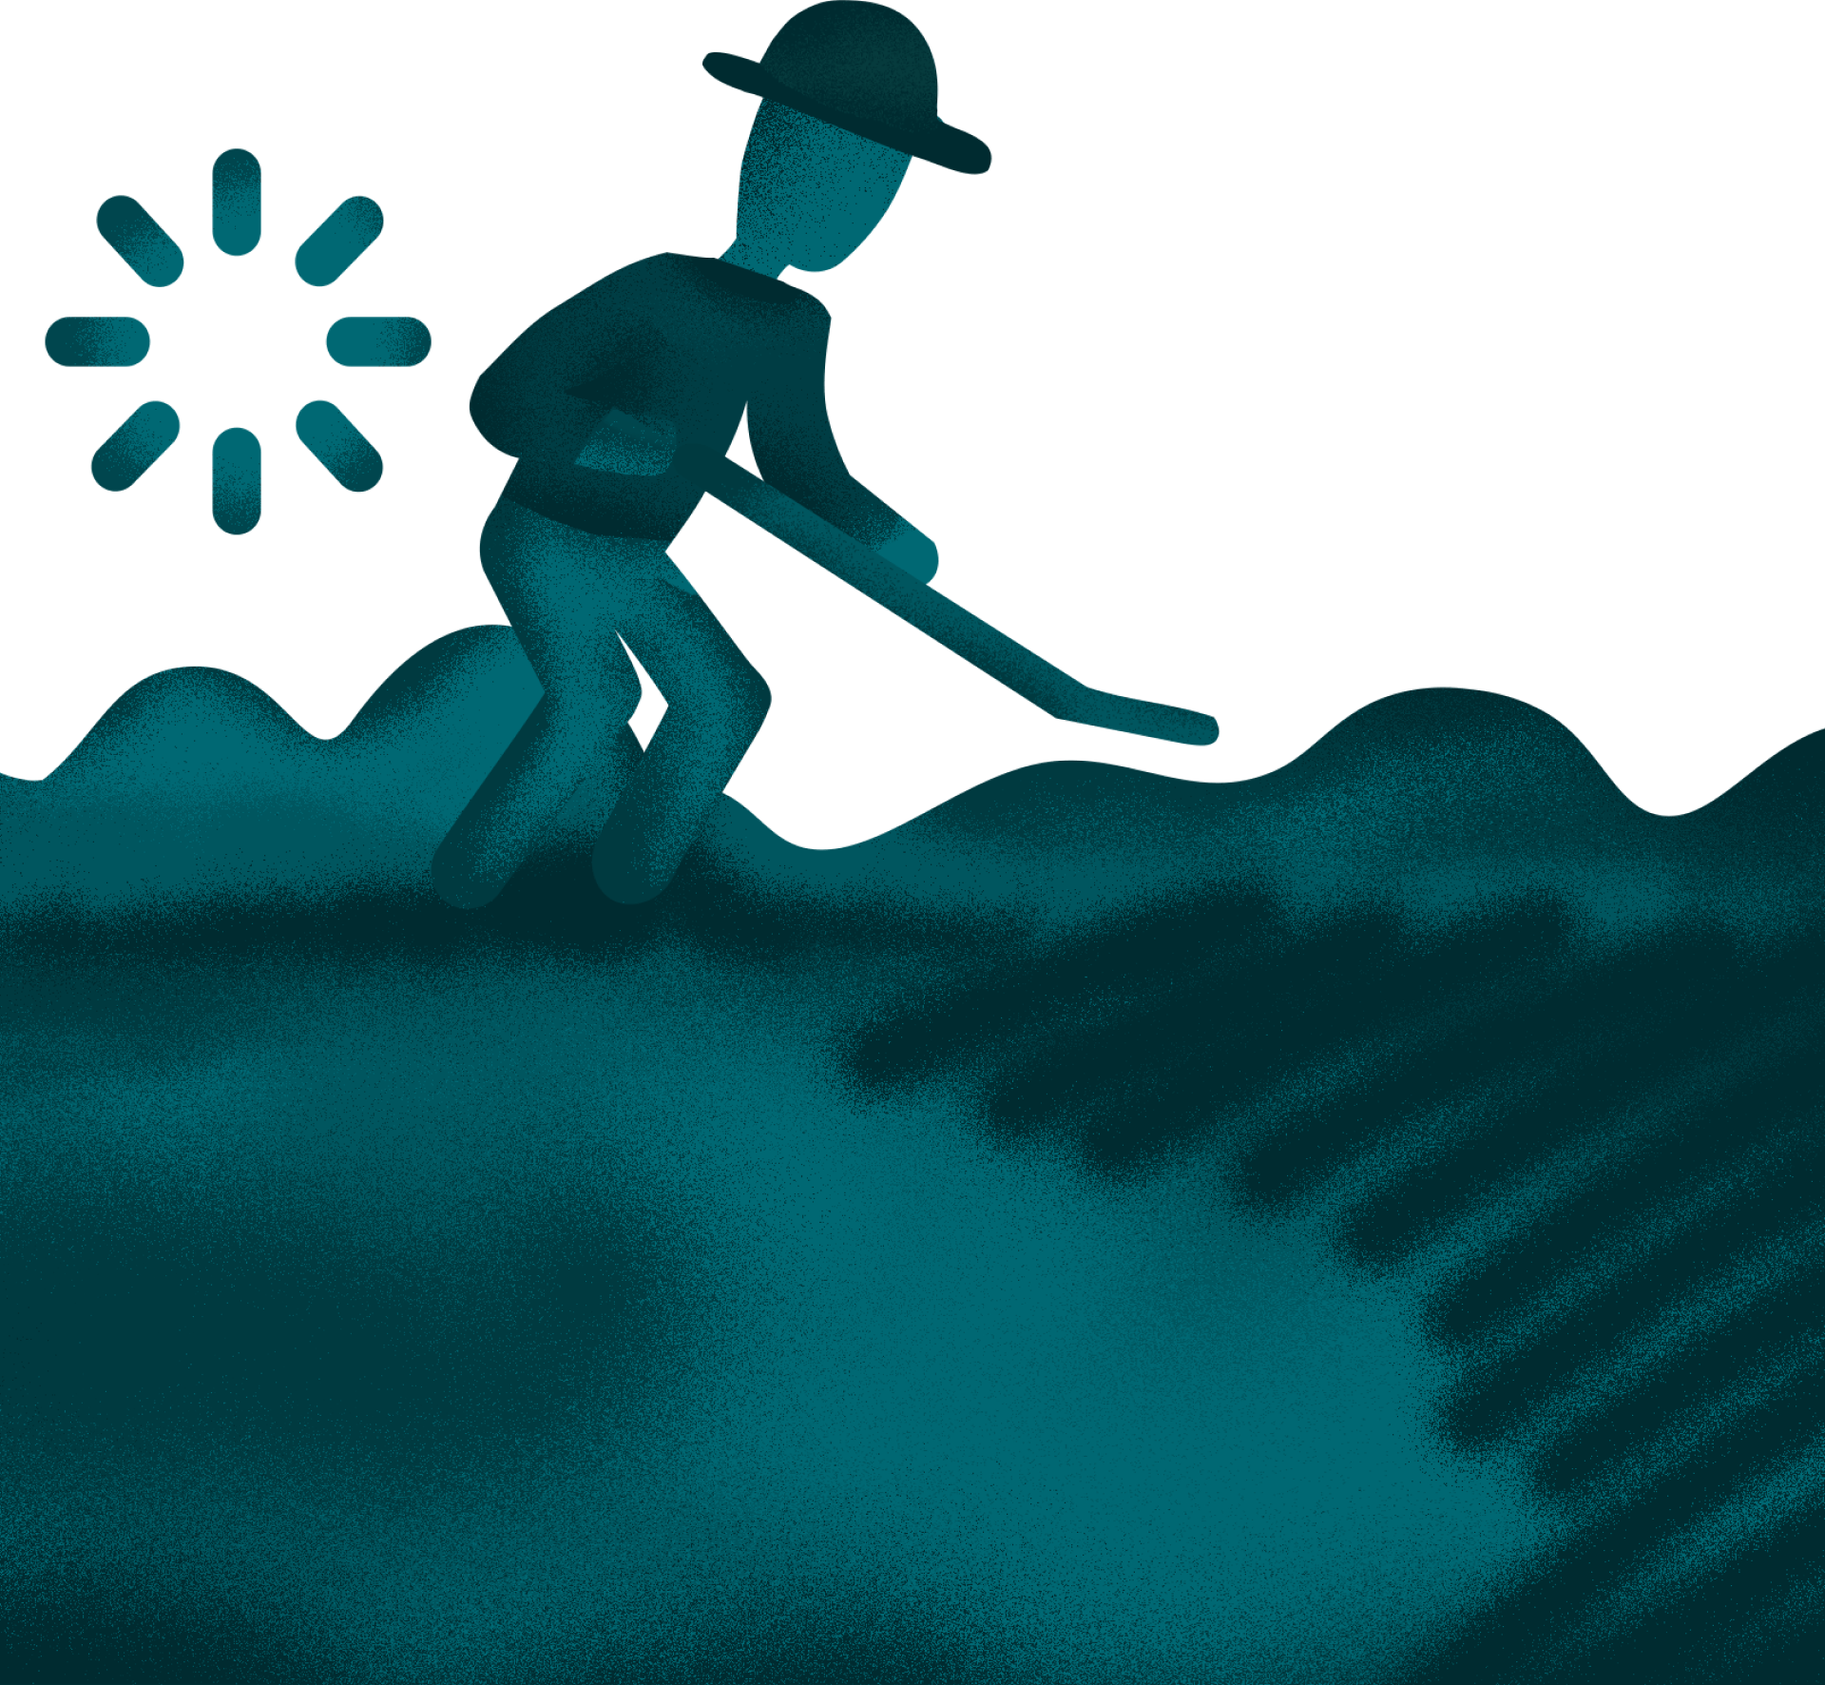
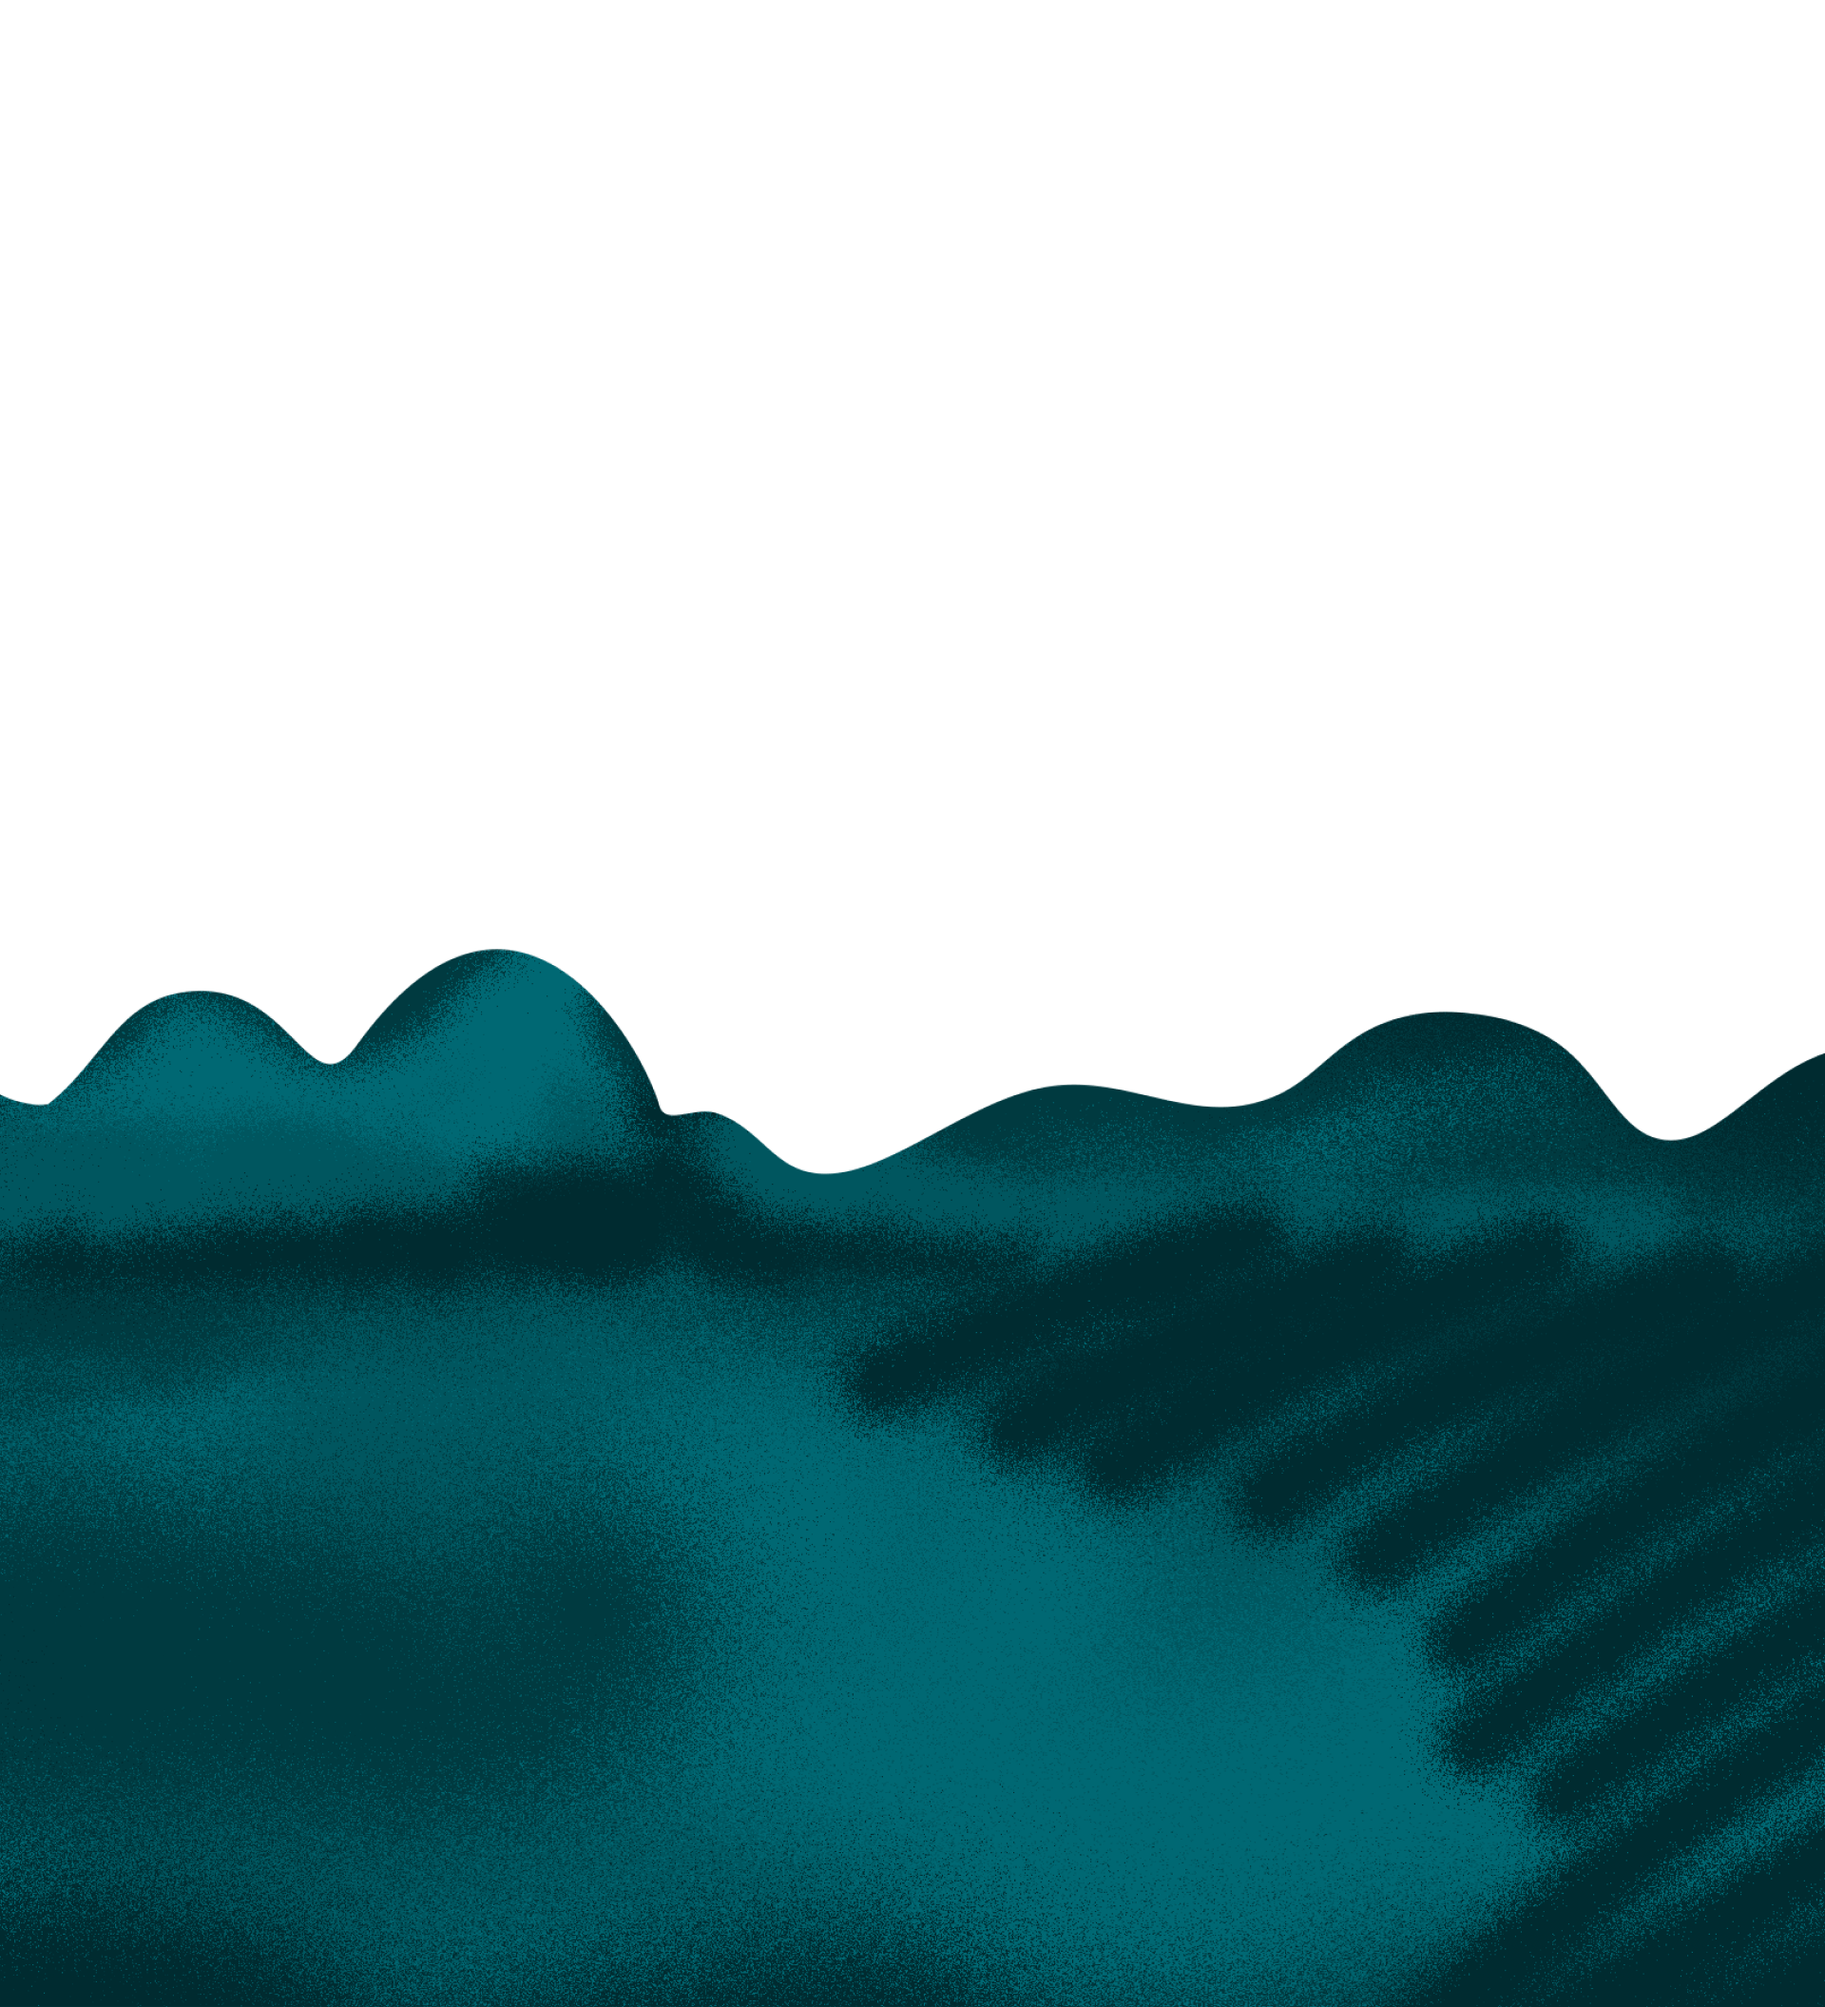
Explotacion laboral, animacion nueva

diff --git a/src/components/Section2/Explotacion/ExplotacionLaboral/ExplotacionLaboral.jsx b/src/components/Section2/Explotacion/ExplotacionLaboral/ExplotacionLaboral.jsx
@@ -6,7 +6,7 @@ import data from "../../../../../trataSection02.json";
 import BookLaboral from "../../../NoteBook/NoteBookSection02Laboral/BookLaboral";
 import Testimonios from "../../Testimonios/Testimonios";
 
-const ExplotacionLaboral = ({handleVideosPlay}) => {
+const ExplotacionLaboral = ({ handleVideosPlay }) => {
   const page6 = data[0].finalidades.page6;
   const name1 = page6.text4;
   const name2 = page6.text5;
@@ -38,6 +38,10 @@ const ExplotacionLaboral = ({handleVideosPlay}) => {
         x: "+100vw",
         ease: "power2.Out",
       });
+      tl.to(".laboral__men", {
+        x: "+130vw",
+        ease: "power2.in",
+      });
     });
     return () => animateGraphic.revert();
   }, []);
@@ -51,10 +55,15 @@ const ExplotacionLaboral = ({handleVideosPlay}) => {
         />
         <BookLaboral page6={page6} />
       </div>
-      {/* <img className="laboral__img" src={backgroundpasto} /> */}
       <div className="laboral__testimonios">
-        <Testimonios laboral={true} name1={name1} name2={name2} handleVideosPlay={handleVideosPlay} />
+        <Testimonios
+          laboral={true}
+          name1={name1}
+          name2={name2}
+          handleVideosPlay={handleVideosPlay}
+        />
       </div>
+      <div className="laboral__men" />
       <div className="laboral__graphicquemado"></div>
     </div>
   );

diff --git a/src/components/Section2/Explotacion/ExplotacionLaboral/ExplotacionLaboral.css b/src/components/Section2/Explotacion/ExplotacionLaboral/ExplotacionLaboral.css
@@ -3,7 +3,7 @@
   flex-direction: column;
   align-items: center;
   margin-top: 20vh;
-  background-image: url("../../../../assets/Img-Section02//Page06/backgroundpasto.png");
+  background-image: url("../../../../assets/Img-Section02/Page06/backgroundpasto.png");
   background-size: cover;
   background-repeat: no-repeat;
   position: relative;
@@ -17,6 +17,16 @@
   z-index: 20;
 }
 
+.laboral__men{
+background-image: url("../../../../assets/Img-Section02/Page06/laboralmen.png");
+background-size: contain;
+background-repeat: no-repeat;
+width: 70vw;
+height: 85vw;
+top: 10vw;
+left: 0;
+position: absolute;
+}
 
 .laboral__graphicquemado {
   display: flex;
@@ -33,12 +43,7 @@
 }
 
 
-.laboral__img {
-  top: 10vw;
-  width: 100vw;
-  position: absolute;
-  z-index: 20;
-}
+
 
 .laboral__testimonios {
   width: 100%;
